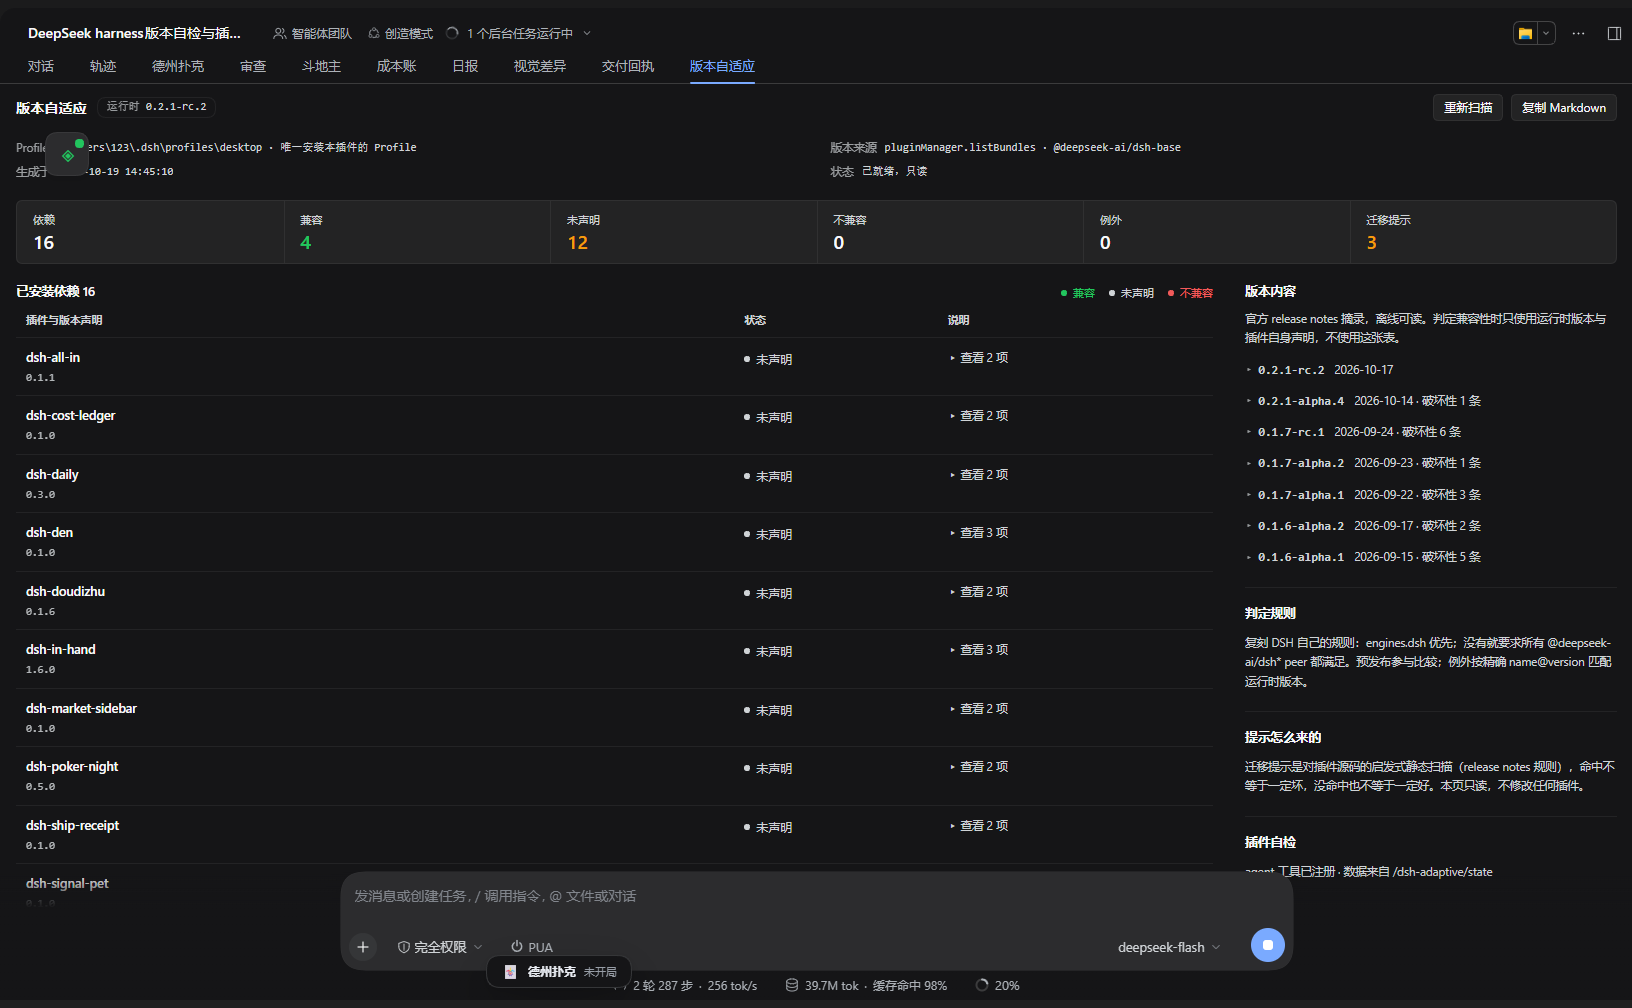
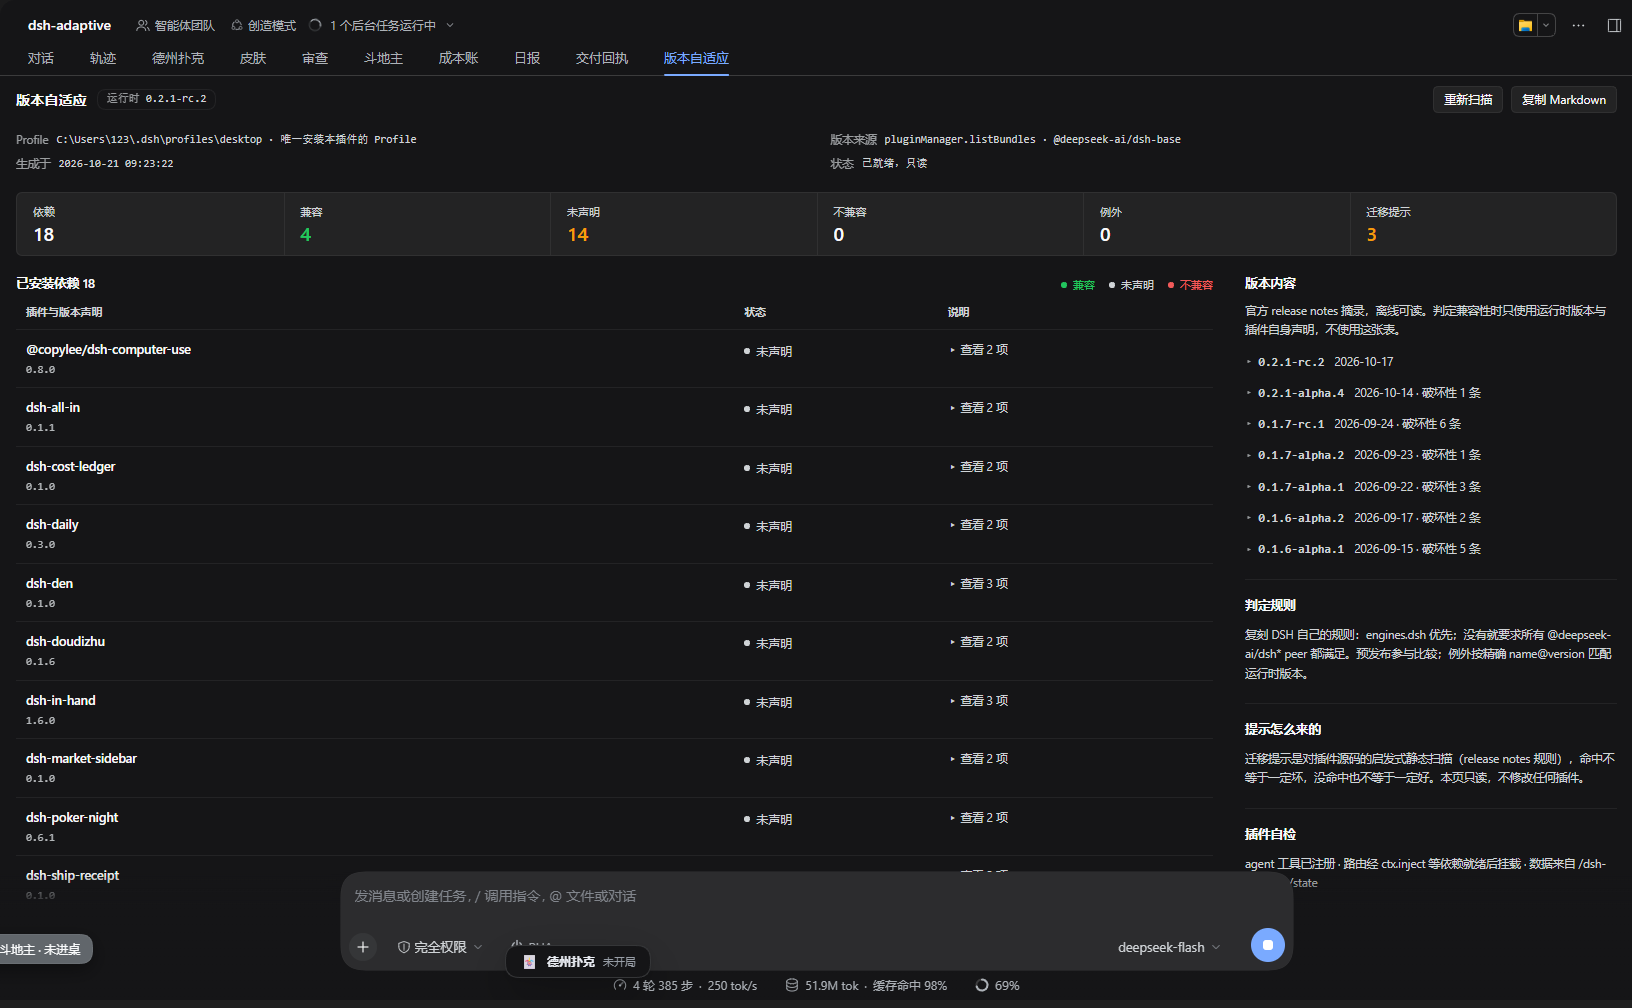
fix: 路由与工具改为等宿主服务就绪后再注册（修复面板 JSON 解析报错）
DSH 不保证 webServer / tools 先于本插件激活时，旧实现读一次 ctx.get() 读到 undefined 就放弃，插件仍是 active 但路由从未注册，面板拿到 0 字节 404，response.json() 抛 Unexpected end of JSON input。改用 cordis 的 ctx.inject(deps, cb) 延迟注册；自检新增 self.registration，面板错误态改为显示 HTTP 状态与空响应提示。版本 0.1.1，34 个测试。

diff --git a/index.js b/index.js
@@ -184,13 +184,16 @@ export function apply(ctx, config) {
     lastError: undefined,
   }
 
+  // 服务就绪后用的上下文：比插件自己的 ctx 更晚就位，能读到 pluginManager 等服务。
+  let runtimeCtx = ctx
+
   async function runScan() {
-    const located = detectProfileDir(ctx, configuredProfileDir)
+    const located = detectProfileDir(runtimeCtx, configuredProfileDir)
     if (located.directory === undefined) {
       throw new Error('定位不到当前 Profile 目录：没有配置 profileDir，没有 DSH_PROFILE_DIR，$DSH_HOME/profiles 下也找不到装了本插件的 Profile')
     }
-    const runtime = await detectRuntimeVersion(ctx)
-    const exceptions = await readExemptions(ctx)
+    const runtime = await detectRuntimeVersion(runtimeCtx)
+    const exceptions = await readExemptions(runtimeCtx)
     const report = scanProfile({
       profileDir: located.directory,
       runtimeVersion: runtime.version,
@@ -231,9 +234,11 @@ export function apply(ctx, config) {
 
   // 自检：本插件自己的两个入口是否真的挂上了（面板页脚也显示这一条）。
   function selfCheck() {
-    const tools = typeof ctx.get === 'function' ? ctx.get('tools') : undefined
+    const tools = typeof runtimeCtx.get === 'function' ? runtimeCtx.get('tools') : undefined
     const toolRegistered = tools !== null && tools !== undefined && typeof tools.get === 'function' ? Boolean(tools.get(TOOL_NAME)) : undefined
-    return { toolRegistered }
+    // 注册方式写进自检：一眼能看出「路由是等依赖就绪后挂上的」还是退化成旧的一次性读取。
+    const registration = typeof ctx.inject === 'function' ? 'ctx.inject' : 'ctx.effect'
+    return { toolRegistered, registration }
   }
 
   function payload(report) {
@@ -280,9 +285,31 @@ export function apply(ctx, config) {
     }
   }
 
+  /**
+   * 服务就绪后再注册。
+   *
+   * DSH 不保证 `webServer` / `tools` 在本插件之前激活：早期实现用 `ctx.effect()` 读一次
+   * `ctx.get()`，读到 undefined 就直接跳过，之后再也不会重试——插件状态还是 active，
+   * 面板却 404、工具也消失，从外面完全看不出原因（2026-10-21 在 0.2.1-rc.2 上实测踩到）。
+   *
+   * 现在改用 cordis 的 `ctx.inject(deps, cb)`：依赖就绪才执行，且随作用域自动清理。
+   * 没有该 API 的旧环境退化成原来的一次性读取，行为不变。
+   */
+  function onService(names, register) {
+    if (typeof ctx.inject === 'function') {
+      ctx.inject(names, (scoped) => {
+        runtimeCtx = scoped
+        if (typeof scoped.effect === 'function') scoped.effect(() => register(scoped))
+        else register(scoped)
+      })
+      return
+    }
+    ctx.effect(() => register(ctx))
+  }
+
   // ---- HTTP：面板读写 -----------------------------------------------------
-  ctx.effect(() => {
-    const webServer = typeof ctx.get === 'function' ? ctx.get('webServer') : undefined
+  onService(['webServer'], (scoped) => {
+    const webServer = scoped.webServer ?? (typeof scoped.get === 'function' ? scoped.get('webServer') : undefined)
     if (webServer === undefined || webServer === null || typeof webServer.register !== 'function') return () => {}
 
     let disposeRoute
@@ -327,8 +354,8 @@ export function apply(ctx, config) {
   })
 
   // ---- agent 工具 --------------------------------------------------------
-  ctx.effect(() => {
-    const tools = typeof ctx.get === 'function' ? ctx.get('tools') : undefined
+  onService(['tools'], (scoped) => {
+    const tools = scoped.tools ?? (typeof scoped.get === 'function' ? scoped.get('tools') : undefined)
     if (tools === undefined || tools === null || typeof tools.register !== 'function') return () => {}
 
     let disposeTool

diff --git a/client.js b/client.js
@@ -225,9 +225,18 @@ window.__ModuleLoader__.load({
         var options = force ? { method: 'POST' } : { headers: { accept: 'application/json' } }
         fetch(url, options)
           .then(function (response) {
-            return response.json().then(function (body) {
-              if (!response.ok || body.ok !== true) {
-                throw new Error((body && body.error && body.error.message) || ('HTTP ' + String(response.status)))
+            return response.text().then(function (text) {
+              var body = null
+              if (text !== '') {
+                try {
+                  body = JSON.parse(text)
+                } catch (parseError) {
+                  throw new Error('HTTP ' + response.status + '，响应不是 JSON：' + text.slice(0, 160))
+                }
+              }
+              if (!response.ok || body === null || body.ok !== true) {
+                var reason = body && body.error && body.error.message
+                throw new Error(reason || ('HTTP ' + response.status + (text === '' ? '，空响应——宿主的 /dsh-adaptive 路由没挂上' : '')))
               }
               return body
             })
@@ -312,6 +321,7 @@ window.__ModuleLoader__.load({
               h('h4', null, '插件自检'),
               h('div', { className: 'da-note' },
                 (data.self.toolRegistered === true ? 'agent 工具已注册' : data.self.toolRegistered === false ? 'agent 工具未注册（宿主没有 tools 服务？）' : 'agent 工具状态未知') +
+                (data.self.registration ? ` · 路由经 ${data.self.registration} 等依赖就绪后挂载` : '') +
                 ' · 数据来自 /dsh-adaptive/state',
               ),
             ) : null,

diff --git a/README.md b/README.md
@@ -9,10 +9,10 @@
 
 ![版本自适应面板](docs/panel.png)
 
-实机截图（desktop Profile、运行时 `0.2.1-rc.2`、16 个依赖）：顶部是运行时版本与 Profile 来源，
+实机截图（desktop Profile、运行时 `0.2.1-rc.2`、18 个依赖）：顶部是运行时版本与 Profile 来源，
 中间一排六个状态计数，左边逐插件表格可展开看版本约束 / 未满足项 / 迁移提示，右边是版本内容快照、
-判定规则说明与本插件自检。左上角的绿色圆点是另一个插件 `dsh-den` 的浮窗入口，底部是宿主自己的
-输入框——两者都不是本插件的界面，只是同一屏里同时存在。
+判定规则说明与本插件自检。画面左下的「斗地主」、底部的「德州扑克」两张浮动卡片是别的插件的浮窗，
+底部输入框是宿主自己的——它们都不是本插件的界面，只是同一屏里同时存在。
 
 ## 为什么需要它
 
@@ -91,10 +91,11 @@ DSH 不会拒绝它们，升级后也没有任何判据能提示风险。
 - **agent 工具** `adaptive_report`：参数 `refresh`、`format: json|markdown`、`includeHints`；
   返回结构化结果，`format=markdown` 时附带完整 Markdown 报告。
 
-本机实测（`0.2.1-rc.2`，desktop Profile，16 个依赖）：兼容 4、未声明 12、不兼容 0、
+本机实测（`0.2.1-rc.2`，desktop Profile，18 个依赖）：兼容 4、未声明 14、不兼容 0、
 迁移提示 3（`dsh-den`、`dsh-in-hand`、`@michengai/dsh-pua` 各一处仍在用 `snapshotEvents` / `eventAt` / `ownEvents`）。
 同一份数据可在浏览器里打开 `GET /dsh-adaptive/state` 复核；面板页脚还会显示本插件自己的
-agent 工具是否注册成功（`self.toolRegistered`）。
+agent 工具是否注册成功（`self.toolRegistered`），以及路由是靠哪种方式挂上的（`self.registration`：
+`ctx.inject` 表示等宿主服务就绪后再注册；`ctx.effect` 是旧的一次性读取）。
 
 ## 边界
 
@@ -103,6 +104,9 @@ agent 工具是否注册成功（`self.toolRegistered`）。
 - **只在本机 `0.2.1-rc.2` 上实测**，`engines.dsh` 因此声明为 `>=0.2.1-rc.2 <0.3.0`；
   面板与工具都软读服务（`webServer` / `tools` / `pluginManager` 缺失时插件仍能激活，只是少一个入口）。
 - 兼容判定是复刻，不是引用 DSH 的内部函数；DSH 改判据时这里要跟着改（本插件自己也会因此被判为不兼容）。
+- **注册顺序不靠运气**：DSH 不保证 `webServer` / `tools` 先于本插件激活。读一次 `ctx.get()` 读到
+  `undefined` 就放弃，会让面板与工具**静默消失**（插件仍是 `active`）——0.1.1 起改用
+  `ctx.inject(deps, cb)`，等依赖就绪再注册，`self.registration` 会写明实际用的是哪条路径。
 - 迁移提示跳过 `node_modules`、`test`、`dist`、`tmp`、`_tmp` 等目录，只扫 `.js/.mjs/.cjs/.ts/.tsx/.jsx/.yml/.yaml`。
 
 ## 开发

diff --git a/CHANGELOG.md b/CHANGELOG.md
@@ -1,6 +1,20 @@
 # Changelog
 
-## 未发布（面板重排）
+## 0.1.1
+
+修复面板报 `Failed to execute 'json' on 'Response': Unexpected end of JSON input`（2026-10-21 实测）。
+
+- **根因**：DSH 不保证 `webServer` / `tools` 在本插件之前激活。旧实现用 `ctx.effect()` 读一次
+  `ctx.get()`，读到 `undefined` 就跳过注册且不再重试——插件状态仍是 `active`，路由却从未挂上，
+  面板拿到空响应（HTTP 404、0 字节），`response.json()` 于是抛 `Unexpected end of JSON input`。
+  `self.toolRegistered` 同时为 `undefined`，等于两个入口一起消失。
+- **修复**：改用 cordis 的 `ctx.inject(deps, cb)`，依赖就绪后才注册路由与工具，并随作用域自动清理；
+  没有该 API 的旧环境退化成原来的行为。
+- 自检新增 `self.registration`（`ctx.inject` / `ctx.effect`），面板页脚显示路由是靠哪种方式挂上的。
+- 面板错误态不再直接抛 JSON 解析异常：空响应显示「HTTP 404，空响应——宿主的 /dsh-adaptive 路由没挂上」。
+- 新增回归测试：激活那一刻服务还没就绪 → 就绪回调后路由与工具都在（共 34 个测试）。
+
+### 面板重排
 
 - 表格改成固定列宽的三列（插件与版本声明 / 状态 / 说明），版本约束内联在插件名下方，
   超过两条截断、悬停看全部，不再把整段声明塞进一列里挤坏排版。
@@ -9,7 +23,7 @@
 - 右侧参考栏用分隔线切成「版本内容 / 判定规则 / 提示怎么来的 / 插件自检」四段，
   长文本限制在 74ch 内。
 - 面板留 16px 左右内边距、底部 160px 给宿主输入框让位，适配窄窗口（≤1100px 单列）。
-- README 增加 `docs/panel.png` 实机截图（desktop Profile、`0.2.1-rc.2`、16 个依赖）。
+- README 增加 `docs/panel.png` 实机截图（desktop Profile、`0.2.1-rc.2`、18 个依赖）。
 
 ## 0.1.0
 
